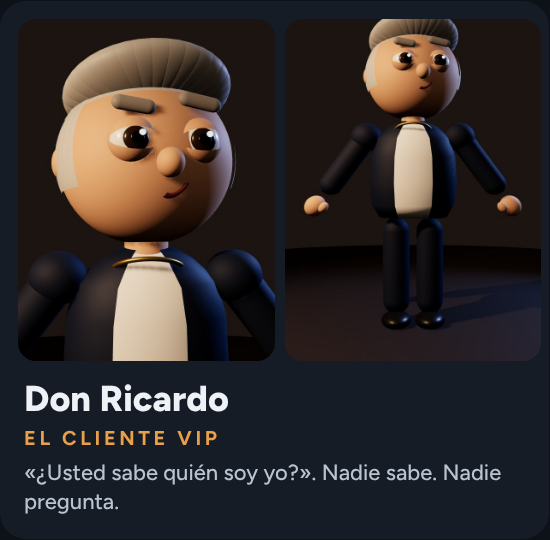
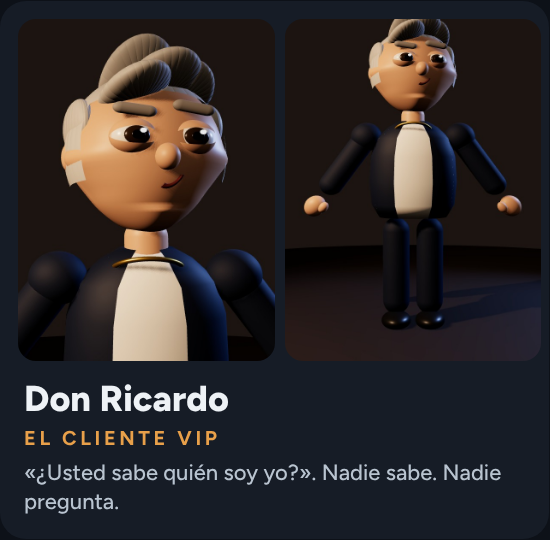
Bocetos v2 (rostro de modelo, pómulos, peinados de galán) y robot «Chispa»
Claude-Session: https://claude.ai/code/session_016r3h3eddn8zLcxunDkNv4C

Changed region(s): [[0.0927, 0.0593, 0.4327, 0.4741], [0.6491, 0.0296, 0.8655, 0.237]]

diff --git a/produccion/redes/voxel/robot3d.js b/produccion/redes/voxel/robot3d.js
@@ -1,0 +1,77 @@
+// «Chispa»: robot mesero retro, raro y único (no es el orbe). Cuerpo de huevo esmaltado crema con bandas de cobre,
+// una sola rueda, cuello de fuelle que se estira, cabeza de tambor con un ojo-lente enorme y otro diminuto, dos antenas desparejas,
+// una oreja-antena parabólica, brazos largos de tres dedos y una ventanilla en la barriga con engranajes que brillan.
+function robot3d(cfg = {}) {
+  const c = Object.assign({ esmalte: "#efe4cf", cobre: "#c8743a", acento: "#2bb3a8", ojo: "#ffb347" }, cfg);
+  const raiz = new THREE.Group(), M = (col, r = 0.4, m = 0) => new THREE.MeshStandardMaterial({ color: col, roughness: r, metalness: m });
+  const mE = M(c.esmalte, 0.28), mC = M(c.cobre, 0.32, 0.85), mN = M("#1a1b1f", 0.5), mA = M(c.acento, 0.35, 0.2), mG = new THREE.MeshPhysicalMaterial({ color: 0xffffff, roughness: 0.05, transmission: 0.6, transparent: true, opacity: 0.35 });
+  const add = (geo, m, x, y, z, padre = raiz) => { const o = new THREE.Mesh(geo, m); o.position.set(x, y, z); o.castShadow = o.receiveShadow = true; padre.add(o); return o; };
+  // rueda
+  const rueda = add(new THREE.TorusGeometry(0.17, 0.065, 18, 40), mN, 0, 0.235, 0); rueda.rotation.y = PI / 2;
+  const cubo = add(new THREE.CylinderGeometry(0.1, 0.1, 0.1, 28), mC, 0, 0.235, 0); cubo.rotation.z = PI / 2;
+  add(new THREE.CylinderGeometry(0.035, 0.05, 0.22, 16), mC, 0, 0.42, 0);
+  // cuerpo de huevo invertido
+  const perfil = [[0.001, 0.0], [0.16, 0.02], [0.3, 0.12], [0.38, 0.3], [0.4, 0.48], [0.36, 0.66], [0.26, 0.8], [0.12, 0.87], [0.001, 0.88]].map(([r, h]) => new THREE.Vector2(r, h));
+  const cuerpo = add(new THREE.LatheGeometry(perfil, 56), mE, 0, 0.5, 0);
+  [[0.74, 0.365], [1.2, 0.34]].forEach(([y, r]) => { const b = add(new THREE.TorusGeometry(r, 0.018, 10, 56), mC, 0, y, 0); b.rotation.x = PI / 2; });
+  // ventanilla con engranajes
+  const cv = document.createElement("canvas"); cv.width = cv.height = 256; const g = cv.getContext("2d"); const tex = new THREE.CanvasTexture(cv); tex.colorSpace = THREE.SRGBColorSpace;
+  const ventana = add(new THREE.CircleGeometry(0.13, 40), new THREE.MeshBasicMaterial({ map: tex, toneMapped: false }), 0, 0.98, 0.402);
+  const aro = add(new THREE.TorusGeometry(0.135, 0.022, 12, 40), mC, 0, 0.98, 0.4);
+  for (let i = 0; i < 8; i++) { const a = (i / 8) * 2 * PI; add(new THREE.SphereGeometry(0.012, 10, 8), mC, Math.cos(a) * 0.135, 0.82 + Math.sin(a) * 0.135 + 0.16, 0.42); }
+  // perillas y botones
+  [[-0.14, 1.27, mA], [-0.06, 1.29, M("#e2463a", 0.4)], [0.13, 1.28, mC]].forEach(([x, y, m]) => add(new THREE.SphereGeometry(0.028, 14, 10), m, x, y, Math.sqrt(Math.max(0, 0.27 * 0.27 - x * x)) + 0.005));
+  // brazos: hombro de bola, segmentos largos, pinza de tres dedos
+  const brazos = [-1, 1].map((d) => { const p = new THREE.Group(); p.position.set(d * 0.38, 1.0, 0); raiz.add(p); add(new THREE.SphereGeometry(0.07, 18, 14), mC, 0, 0, 0, p);
+    const s1 = add(new THREE.CapsuleGeometry(0.035, 0.3, 6, 14), mE, 0, -0.2, 0, p); const codo = new THREE.Group(); codo.position.set(0, -0.38, 0); p.add(codo);
+    add(new THREE.SphereGeometry(0.05, 14, 10), mC, 0, 0, 0, codo); add(new THREE.CapsuleGeometry(0.03, 0.26, 6, 14), mE, 0, -0.17, 0, codo);
+    const mano = new THREE.Group(); mano.position.set(0, -0.34, 0); codo.add(mano); add(new THREE.CylinderGeometry(0.045, 0.035, 0.05, 16), mC, 0, 0, 0, mano);
+    [0, 2.1, 4.2].forEach((a) => { const f = add(new THREE.CapsuleGeometry(0.012, 0.07, 4, 8), mN, Math.cos(a) * 0.03, -0.06, Math.sin(a) * 0.03, mano); f.rotation.set(Math.sin(a) * 0.4, 0, -Math.cos(a) * 0.4); });
+    return { p, codo, mano }; });
+  // bandeja con una tacita en la mano derecha
+  const bandeja = new THREE.Group(); brazos[1].mano.add(bandeja); bandeja.position.set(0, -0.1, 0.1);
+  add(new THREE.CylinderGeometry(0.17, 0.16, 0.014, 40), M("#b9bec4", 0.2, 0.9), 0, 0, 0.06, bandeja);
+  add(new THREE.CylinderGeometry(0.04, 0.032, 0.06, 20), M("#f4f1ea", 0.3), 0.03, 0.035, 0.07, bandeja);
+  // cuello de fuelle
+  const cuello = new THREE.Group(); cuello.position.set(0, 1.38, 0); raiz.add(cuello);
+  for (let i = 0; i < 6; i++) { const t = add(new THREE.TorusGeometry(0.075 - (i % 2) * 0.012, 0.025, 10, 28), i % 2 ? mN : mC, 0, i * 0.045, 0, cuello); t.rotation.x = PI / 2; }
+  // cabeza de tambor (cilindro acostado), ojo-lente enorme y ojo diminuto
+  const cabeza = new THREE.Group(); cabeza.position.set(0, 0.36, 0); cuello.add(cabeza);
+  const tambor = add(new THREE.CylinderGeometry(0.24, 0.24, 0.46, 48), mE, 0, 0, 0, cabeza); tambor.rotation.z = PI / 2;
+  [-1, 1].forEach((d) => { const tapa = add(new THREE.CylinderGeometry(0.245, 0.245, 0.03, 48), mC, d * 0.24, 0, 0, cabeza); tapa.rotation.z = PI / 2; });
+  const ojo = new THREE.Group(); ojo.position.set(-0.07, 0.02, 0.2); cabeza.add(ojo);
+  const barril = add(new THREE.CylinderGeometry(0.14, 0.15, 0.12, 40), mN, 0, 0, 0.04, ojo); barril.rotation.x = PI / 2;
+  const aroOjo = add(new THREE.TorusGeometry(0.145, 0.02, 12, 40), mC, 0, 0, 0.1, ojo);
+  const iris = add(new THREE.CircleGeometry(0.1, 40), new THREE.MeshBasicMaterial({ color: c.ojo, toneMapped: false }), 0, 0, 0.101, ojo);
+  const pupila = add(new THREE.CircleGeometry(0.045, 32), new THREE.MeshBasicMaterial({ color: 0x120a04 }), 0, 0, 0.102, ojo);
+  const cristal = add(new THREE.SphereGeometry(0.13, 32, 16, 0, 2 * PI, 0, PI / 2), mG, 0, 0, 0.09, ojo); cristal.rotation.x = PI / 2; cristal.scale.z = 0.5;
+  const brillo = add(new THREE.CircleGeometry(0.02, 16), new THREE.MeshBasicMaterial({ color: 0xffffff }), 0.04, 0.05, 0.135, ojo);
+  const luzOjo = new THREE.PointLight(c.ojo, 0.8, 1.2, 2); luzOjo.position.set(0, 0, 0.25); ojo.add(luzOjo);
+  const ojito = new THREE.Group(); ojito.position.set(0.15, 0.08, 0.215); cabeza.add(ojito);
+  const b2 = add(new THREE.CylinderGeometry(0.035, 0.04, 0.05, 20), mN, 0, 0, 0.0, ojito); b2.rotation.x = PI / 2;
+  add(new THREE.CircleGeometry(0.024, 20), new THREE.MeshBasicMaterial({ color: c.acento, toneMapped: false }), 0, 0, 0.026, ojito);
+  // boca: rejilla de altavoz
+  for (let i = 0; i < 5; i++) add(new THREE.BoxGeometry(0.012, 0.05, 0.01), mN, 0.08 + i * 0.022, -0.13, 0.205, cabeza);
+  // antenas desparejas con bombillo y oreja parabólica
+  const ant1 = add(new THREE.CylinderGeometry(0.008, 0.008, 0.32, 8), mC, -0.12, 0.38, -0.02, cabeza); ant1.rotation.z = 0.25;
+  const bomb1 = add(new THREE.SphereGeometry(0.035, 16, 12), new THREE.MeshBasicMaterial({ color: 0xffd27a, toneMapped: false }), -0.16, 0.54, -0.02, cabeza);
+  const ant2 = new THREE.Group(); ant2.position.set(0.12, 0.22, 0); cabeza.add(ant2);
+  const a2a = add(new THREE.CylinderGeometry(0.007, 0.007, 0.14, 8), mC, 0, 0.07, 0, ant2); const a2b = add(new THREE.CylinderGeometry(0.007, 0.007, 0.12, 8), mC, 0.05, 0.16, 0, ant2); a2b.rotation.z = -1.0;
+  const bomb2 = add(new THREE.SphereGeometry(0.022, 14, 10), new THREE.MeshBasicMaterial({ color: c.acento, toneMapped: false }), 0.1, 0.19, 0, ant2);
+  const oreja = new THREE.Group(); oreja.position.set(0.27, 0.05, 0); cabeza.add(oreja);
+  const plato = add(new THREE.SphereGeometry(0.11, 28, 12, 0, 2 * PI, 0, PI * 0.35), mE, 0.04, 0, 0, oreja); plato.rotation.z = -PI / 2;
+  add(new THREE.CylinderGeometry(0.006, 0.006, 0.08, 6), mC, 0.06, 0, 0, oreja).rotation.z = PI / 2;
+  function animar(t, s = {}) {
+    const habla = s.voz || 0; cuello.scale.y = 1 + 0.15 * Math.sin(t * 1.3) * 0.3 + (s.estira || 0); cabeza.rotation.set(Math.sin(t * 0.9) * 0.05, s.mira ?? Math.sin(t * 0.6) * 0.25, Math.sin(t * 0.7) * 0.06 + (s.ladea || 0));
+    oreja.rotation.x = t * 3; bomb1.material.color.setHSL(0.11, 1, 0.55 + 0.25 * Math.abs(Math.sin(t * 4))); bomb2.material.color.setHSL(0.48, 0.8, 0.4 + 0.3 * Math.abs(Math.sin(t * 6 + 1)));
+    const z = 1 + 0.25 * Math.sin(t * 2.5) * (s.enfoca ?? 0.4); iris.scale.setScalar(z); pupila.scale.setScalar(1.4 - 0.5 * z); luzOjo.intensity = 0.6 + habla * 1.2;
+    brazos[0].p.rotation.set(-0.3 + Math.sin(t * 1.1) * 0.08, 0, -0.25); brazos[0].codo.rotation.x = -0.5; brazos[1].p.rotation.set(-0.9, 0, 0.15); brazos[1].codo.rotation.x = -0.9;
+    bandeja.rotation.x = 0.9 + 0.9 - 0.0; bandeja.rotation.x = -(brazos[1].p.rotation.x + brazos[1].codo.rotation.x);
+    g.fillStyle = "#1a0f06"; g.fillRect(0, 0, 256, 256);
+    [[90, 110, 70, 10, 1], [170, 150, 50, 8, -1.6], [120, 190, 36, 7, 2.2]].forEach(([x, y, r, n, v]) => { g.save(); g.translate(x, y); g.rotate(t * v); g.fillStyle = "#ffb347"; g.shadowColor = "#ff8a00"; g.shadowBlur = 18;
+      g.beginPath(); for (let i = 0; i < n * 2; i++) { const a = (i / (n * 2)) * 2 * PI, rr = i % 2 ? r : r * 0.78; g.lineTo(Math.cos(a) * rr, Math.sin(a) * rr); } g.closePath(); g.fill();
+      g.fillStyle = "#1a0f06"; g.beginPath(); g.arc(0, 0, r * 0.3, 0, 2 * PI); g.fill(); g.restore(); });
+    tex.needsUpdate = true; rueda.rotation.x = t * 2;
+  }
+  return { raiz, animar };
+}

diff --git a/produccion/redes/voxel/vinil3d.js b/produccion/redes/voxel/vinil3d.js
@@ -16,12 +16,21 @@ VIN.torno = (perfil, m, padre, y = 0, sz = 0.74, phi0 = 0, phiL = 2 * PI) => { c
 // perfil del torso: de la cadera a los hombros (radio, alto)
 VIN.TORSO = [[0.001, -0.02], [0.2, -0.01], [0.25, 0.08], [0.265, 0.24], [0.255, 0.42], [0.22, 0.55], [0.14, 0.63], [0.075, 0.67], [0.001, 0.68]];
 VIN.TORSO_F = [[0.001, -0.02], [0.225, -0.01], [0.255, 0.07], [0.205, 0.25], [0.238, 0.41], [0.215, 0.54], [0.14, 0.63], [0.07, 0.67], [0.001, 0.68]];
+VIN.rostro = (geo, R) => {   // deforma una esfera de radio R: mandíbula en V, pómulos altos y mentón definido
+  const p = geo.attributes.position, v = new THREE.Vector3();
+  for (let i = 0; i < p.count; i++) { v.fromBufferAttribute(p, i); const yn = v.y / R, fr = v.z > 0 ? 1 : 0.55;
+    const conico = yn < 0 ? 1 - 0.3 * Math.pow(-yn, 1.45) : 1 - 0.03 * yn; v.x *= conico; v.z *= yn < 0 ? 1 - 0.1 * yn * yn : 1;
+    v.x *= 1 + 0.075 * Math.exp(-Math.pow(yn + 0.1, 2) / 0.018) * fr;                         // pómulos
+    v.x *= 1 - 0.035 * Math.exp(-Math.pow(yn + 0.5, 2) / 0.02) * fr;                          // sombra bajo el pómulo
+    if (yn < -0.7 && v.z > 0) v.z += 0.025 * R / 0.3 * Math.exp(-(v.x * v.x) / 0.006);          // mentón
+    p.setXYZ(i, v.x, v.y, v.z); }
+  p.needsUpdate = true; geo.computeVertexNormals(); return geo; };
 VIN.crecer = (perfil, d) => perfil.map(([r, h]) => [r > 0.01 ? r + d : r, h]);
 
 function personaVinil(cfg) {
   const c = Object.assign({ piel: "#d9a27e", pelo: "#2b1d16", cejas: "#1c1410", camisa: "#e7e1d6", pantalon: "#2c3442", zapatos: "#1a1a1a", alto: 1, iris: "#3a2416" }, cfg);
   const raiz = new THREE.Group(), cuerpo = pivote(0, 0, 0, raiz); raiz.scale.setScalar(c.alto);
-  const M = VIN.mat, mPiel = M(c.piel, { r: 0.62 }), mCamisa = M(c.camisa, { r: 0.75 }), mPant = M(c.pantalon, { r: 0.7 });
+  const M = VIN.mat, mPiel = M(c.piel, { r: c.modelo ? 0.45 : 0.62 }), mCamisa = M(c.camisa, { r: 0.75 }), mPant = M(c.pantalon, { r: 0.7 });
   const mPelo = M(c.pelo, { r: 0.5, bump: VIN.surcos, bs: 1.2 });
   // piernas y zapatos
   const piernas = [-1, 1].map((d) => { const p = pivote(d * 0.12, 0.78, 0, cuerpo); VIN.capsula(0.095, 0.5, mPant, 0, -0.36, 0, p);
@@ -44,10 +53,10 @@ function personaVinil(cfg) {
   // cuello y cabeza grande
   const cuello = pivote(0, 0.64, 0, torso); VIN.capsula(0.075, 0.06, mPiel, 0, 0.04, 0, cuello);
   const cabeza = pivote(0, 0.07, 0, cuello), H = new THREE.Group(); H.position.set(0, 0.29, 0.01); cabeza.add(H);
-  VIN.esfera(0.3, mPiel, 0, 0, 0, H, 1, 1.06, 0.96, 56);
+  const craneo = VIN.esfera(0.3, mPiel, 0, 0, 0, H, 1, c.modelo ? 1.1 : 1.06, 0.96, 72); if (c.modelo) { VIN.rostro(craneo.geometry, 0.3); H.scale.setScalar(0.9); H.position.y = 0.31; }
   [-1, 1].forEach((d) => VIN.esfera(0.06, mPiel, d * 0.29, -0.01, -0.02, H, 0.5, 1, 0.85));   // orejas
   // pelo esculpido
-  const casquete = (rad, th0, thL, ph0 = 0, phL = 2 * PI) => { const o = VIN.malla(new THREE.SphereGeometry(rad, 48, 24, ph0, phL, th0, thL), mPelo, 0, 0, 0, H); o.scale.set(1, 1.06, 0.98); return o; };
+  const casquete = (rad, th0, thL, ph0 = 0, phL = 2 * PI) => { const o = VIN.malla(new THREE.SphereGeometry(rad, 48, 24, ph0, phL, th0, thL), mPelo, 0, 0, 0, H); o.scale.set(1, c.modelo ? 1.13 : 1.06, 0.98); return o; };
   if (!c.calvo) {
     casquete(0.312, 0, PI * 0.36).rotation.x = -0.32;                    // tapa
     casquete(0.31, 0, PI * 0.62, PI * 0.85, PI * 1.3).rotation.x = -0.05;   // nuca y lados (abierto al frente)
@@ -63,6 +72,14 @@ function personaVinil(cfg) {
     if (c.peinado === "bob") { const mL = M(c.pelo, { r: 0.45, bump: VIN.surcos, bs: 1.2, lado: THREE.DoubleSide });
       VIN.malla(new THREE.CylinderGeometry(0.315, 0.34, 0.34, 40, 1, true, PI * 0.36, PI * 1.28), mL, 0, -0.1, -0.01, H);
       const fl = VIN.esfera(0.2, mPelo, 0.05, 0.21, 0.14, H, 1.35, 0.4, 0.8); fl.rotation.set(0.3, 0, -0.25); }
+    if (c.peinado === "galan") {   // tupé con raya al lado: mechones largos que suben y caen hacia atrás
+      [[-0.08, 0.24, 0.15, 0.14, -0.25, 0.3], [0.04, 0.29, 0.1, 0.15, -0.35, 0.08], [0.13, 0.27, 0.05, 0.13, -0.45, -0.25], [-0.02, 0.32, -0.04, 0.16, -0.7, 0.1], [0.07, 0.3, -0.14, 0.14, -0.95, -0.1]]
+        .forEach(([x0, y0, z0, r, rx, rz]) => { const m = VIN.esfera(r, mPelo, x0, y0, z0, H, 0.95, 0.42, 1.55); m.rotation.set(rx, 0, rz); });
+      [-1, 1].forEach((d) => VIN.esfera(0.13, mPelo, d * 0.25, 0.12, -0.04, H, 0.42, 0.9, 1.3)); }
+    if (c.peinado === "melena") { const mL = M(c.pelo, { r: 0.4, bump: VIN.surcos, bs: 1.4, lado: THREE.DoubleSide });   // melena larga en capas con flequillo abierto
+      VIN.malla(new THREE.CylinderGeometry(0.29, 0.38, 0.78, 48, 1, true, PI * 0.55, PI * 0.9), mL, 0, -0.38, -0.04, H);
+      [-1, 1].forEach((d) => { for (let i = 0; i < 5; i++) { const m = VIN.esfera(0.1 - i * 0.008, mPelo, d * (0.25 + 0.02 * Math.sin(i * 1.7)), 0.08 - i * 0.14, 0.02 - i * 0.03, H, 0.7, 1.35, 0.85); m.rotation.z = d * 0.15; }
+        const c2 = VIN.esfera(0.13, mPelo, d * 0.17, 0.2, 0.18, H, 0.55, 1.15, 0.55); c2.rotation.set(0.45, 0, d * 0.95); }); }
     if (c.peinado === "rapado") { /* solo el casquete */ }
     if (c.peinado === "normal" || !c.peinado) VIN.esfera(0.16, mPelo, 0.04, 0.24, 0.1, H, 1.4, 0.45, 1.0).rotation.x = -0.2;
   }
@@ -86,7 +103,7 @@ function personaVinil(cfg) {
   if (c.gafas) { const mg = M(c.gafas, { r: 0.3 }); ojos.forEach(({ g }) => { const ar = VIN.malla(new THREE.TorusGeometry(0.085, 0.011, 8, 36), mg, 0, 0, 0.045, g); ar.scale.y = 0.85; });
     VIN.capsula(0.008, 0.05, mg, 0, 0.035, 0.29, H).rotation.z = PI / 2; }
   if (c.barba) { const mb = new THREE.MeshStandardMaterial({ color: c.barba, roughness: 0.95, transparent: true, opacity: 0.38, bumpMap: VIN.surcos, bumpScale: 0.5 });
-    const bb = VIN.malla(new THREE.SphereGeometry(0.304, 48, 16, PI * 0.1, PI * 0.8, PI * 0.74, PI * 0.2), mb, 0, 0, 0, H); bb.scale.set(1, 1.06, 0.965); bb.castShadow = false; }
+    const bb = VIN.malla(new THREE.SphereGeometry(0.304, 48, 16, PI * 0.1, PI * 0.8, PI * 0.74, PI * 0.2), mb, 0, 0, 0, H); bb.scale.set(1, c.modelo ? 1.1 : 1.06, 0.965); if (c.modelo) VIN.rostro(bb.geometry, 0.304); bb.castShadow = false; }
   if (c.pestanas) { const mp = M(c.pestanas, { r: 0.35 }); ojos.forEach(({ par, d }) => {   // delineado sobre el párpado y una «colita» hacia afuera
       const arco = VIN.malla(new THREE.TorusGeometry(0.077, 0.0085, 8, 30, PI * 0.95), mp, 0, 0.004, 0, par); arco.rotation.set(PI / 2, 0, PI * 0.025);
       const cola = VIN.capsula(0.007, 0.03, mp, d * 0.078, 0.012, 0.012, par); cola.rotation.set(0, 0, -d * 1.1); }); }

diff --git a/produccion/redes/voxel/bocetos.py b/produccion/redes/voxel/bocetos.py
@@ -7,27 +7,27 @@ RAIZ = motor.RAIZ; SALIDA = RAIZ + "entregables/redes/bocetos/"; THREE = motor.T
 
 PERSONAJES = [
     dict(id="valentina", nombre="Valentina", rol="La mesera estrella", frase="Atiende veinte mesas con una sonrisa… y una ceja levantada.",
-         cfg=dict(piel="#e6b08c", pelo="#2a1810", cejas="#2a1810", peinado="ondas", pestanas="#120c0a", labios="#b8323e", almendra=True, narizFina=True, aretes="#e0b84a", torsoF=True,
+         cfg=dict(piel="#e6b08c", pelo="#2a1810", cejas="#2a1810", peinado="melena", modelo=True, pestanas="#120c0a", labios="#b8323e", almendra=True, narizFina=True, aretes="#e0b84a", torsoF=True,
                   camisa="#1b1b20", pantalon="#1b1b20", zapatos="#0e0e10", iris="#5a3418", alto=0.96, semilla=41),
          pose=dict(emo="seductor", gesto="cadera", mira=-12, miraY=-0.04)),
     dict(id="sebastian", nombre="Sebastián", rol="El chef arrogante", frase="«Mi receta no se toca». Ni el dueño se atreve.",
-         cfg=dict(piel="#cf9670", pelo="#141010", cejas="#141010", peinado="engominado", barba="#2a1e18", almendra=True, camisa="#f4f2ee", pantalon="#26282e", hombros=1.08,
+         cfg=dict(piel="#cf9670", pelo="#141010", cejas="#141010", peinado="galan", modelo=True, barba="#2a1e18", almendra=True, camisa="#f4f2ee", pantalon="#26282e", hombros=1.08,
                   iris="#2a1a10", alto=1.04, semilla=42),
          pose=dict(emo="arrogante", gesto="cruzado", mira=10, miraY=-0.12)),
     dict(id="camila", nombre="Camila", rol="La influencer", frase="Antes de comer, la foto. Y si no hay buena luz, se va.",
-         cfg=dict(piel="#f2c9a8", pelo="#e3c272", cejas="#a88a40", peinado="ondas", pestanas="#1a120c", labios="#d65a78", almendra=True, narizFina=True, aretes="#f0d070", torsoF=True,
+         cfg=dict(piel="#f2c9a8", pelo="#e3c272", cejas="#a88a40", peinado="melena", modelo=True, pestanas="#1a120c", labios="#d65a78", almendra=True, narizFina=True, aretes="#f0d070", torsoF=True,
                   camisa="#f2a0be", pantalon="#e9e2d8", zapatos="#d9c9b9", iris="#3a6a8a", alto=0.95, semilla=43),
          pose=dict(emo="feliz", gesto="celular", mira=-15, miraY=0.0)),
     dict(id="ricardo", nombre="Don Ricardo", rol="El cliente VIP", frase="«¿Usted sabe quién soy yo?». Nadie sabe. Nadie pregunta.",
-         cfg=dict(piel="#dba987", pelo="#c4c2bf", cejas="#9a9692", peinado="engominado", cadena="#e0b84a", saco="#14213a", camisa="#f4f2ee", pantalon="#14213a",
+         cfg=dict(piel="#dba987", pelo="#c4c2bf", cejas="#9a9692", peinado="galan", modelo=True, almendra=True, cadena="#e0b84a", saco="#14213a", camisa="#f4f2ee", pantalon="#14213a",
                   hombros=1.1, iris="#3a2a1a", alto=1.02, semilla=44),
          pose=dict(emo="arrogante", gesto="cadera", mira=12, miraY=-0.16)),
     dict(id="mateo", nombre="Mateo", rol="El repartidor galán", frase="Llega a tiempo, sonríe… y todos piden otra vez.",
-         cfg=dict(piel="#b87c56", pelo="#121010", cejas="#121010", peinado="rapado", barba="#1e1612", almendra=True, saco="#1d2027", camisa="#f2efe8", pantalon="#2a2f3a",
+         cfg=dict(piel="#b87c56", pelo="#121010", cejas="#121010", peinado="galan", modelo=True, barba="#1e1612", almendra=True, saco="#1d2027", camisa="#f2efe8", pantalon="#2a2f3a",
                   hombros=1.1, iris="#2a1a10", alto=1.03, semilla=45),
          pose=dict(emo="seductor", gesto="reposo", mira=-8, miraY=-0.03)),
     dict(id="daniela", nombre="Daniela", rol="La dueña de enfrente", frase="Su rival. Elegante, fría… y siempre un paso adelante.",
-         cfg=dict(piel="#dfa680", pelo="#3a1e14", cejas="#2a160e", peinado="bob", gafas="#141414", pestanas="#120c0a", labios="#8e2a3a", almendra=True, narizFina=True, torsoF=True,
+         cfg=dict(piel="#dfa680", pelo="#3a1e14", cejas="#2a160e", peinado="bob", modelo=True, gafas="#141414", pestanas="#120c0a", labios="#8e2a3a", almendra=True, narizFina=True, torsoF=True,
                   saco="#9a1f2e", camisa="#f4f1ea", pantalon="#1a1a1e", iris="#3a2416", alto=0.97, semilla=46),
          pose=dict(emo="arrogante", gesto="cruzado", mira=-10, miraY=-0.1)),
 ]
@@ -41,7 +41,7 @@ body{{margin:0;background:#0d1118;color:#eef2f6;font-family:Figtree;width:1800px
 .g{{display:grid;grid-template-columns:repeat(3,1fr);gap:26px;padding:0 50px 50px}} .t{{background:#161c26;border-radius:26px;padding:18px 18px 22px}}
 .fotos{{display:flex;gap:10px}} .fotos img{{width:50%;border-radius:18px;background:#222}} h2{{font:800 36px Figtree;margin:16px 6px 0}} h3{{font:700 20px Figtree;letter-spacing:.18em;text-transform:uppercase;color:#e8a04a;margin:6px 6px}}
 p{{font:500 22px/1.35 Figtree;color:#b9c4d0;margin:8px 6px 0}}</style></head><body>
-<h1>Bocetos de personajes · Apex</h1><div class="sub">Figuras de vinil. Elija los que le sirven y los que no.</div><div class="g">{tarjetas}</div>
+<h1>Bocetos de personajes · Apex</h1><div class="sub">Versión 2: rostro de modelo, pómulos marcados, ojos almendrados, piel lisa y peinados de galán.</div><div class="g">{tarjetas}</div>
 <canvas id="lienzo" width="600" height="800" style="display:none"></canvas>
 <script src="file://{THREE}"></script>
 <script>const EP = {{ estilo: "vinil" }}; const PERS = {json.dumps(PERSONAJES, ensure_ascii=False)};

diff --git a/produccion/redes/voxel/robot.py b/produccion/redes/voxel/robot.py
@@ -1,0 +1,46 @@
+"""Boceto del robot «Chispa»: hoja con vista de tres cuartos, de frente, de perfil y primer plano de la cabeza.
+  python robot.py  →  entregables/redes/bocetos/robot.png"""
+import os, asyncio, importlib.util
+AQUI = os.path.dirname(os.path.abspath(__file__)) + "/"
+_spec = importlib.util.spec_from_file_location("motor", AQUI + "../heroes/hacer.py"); motor = importlib.util.module_from_spec(_spec); _spec.loader.exec_module(motor)
+RAIZ = motor.RAIZ; SALIDA = RAIZ + "entregables/redes/bocetos/"; THREE = motor.TRABAJO + "three/package/build/three.min.js"
+VISTAS = [("tres cuartos", [1.6, 1.4, 2.9], [0, 1.05, 0], 34), ("de frente", [0, 1.25, 3.2], [0, 1.05, 0], 34), ("de perfil", [3.2, 1.3, 0.2], [0, 1.05, 0], 34), ("la cabeza", [0.95, 1.92, 1.75], [0, 1.76, 0], 30)]
+
+def pagina(W):
+    leer = lambda p: open(p).read()
+    imgs = "".join(f'<figure><img id="v{i}"><figcaption>{n}</figcaption></figure>' for i, (n, *_) in enumerate(VISTAS))
+    html = f'''<!doctype html><html><head><meta charset="utf-8">{leer(RAIZ + "produccion/videos/fuentes.html")}<style>
+body{{margin:0;background:#0d1118;color:#eef2f6;font-family:Figtree;width:1800px}} h1{{font:800 56px Figtree;margin:40px 50px 4px}} h3{{font:700 22px Figtree;letter-spacing:.2em;color:#e8a04a;margin:0 50px}}
+p{{font:500 26px/1.4 Figtree;color:#b9c4d0;margin:14px 50px 26px;max-width:1500px}} .g{{display:flex;gap:18px;padding:0 50px 50px}} figure{{margin:0;flex:1;background:#161c26;border-radius:22px;padding:12px}}
+img{{width:100%;border-radius:14px}} figcaption{{font:700 20px Figtree;letter-spacing:.16em;text-transform:uppercase;color:#8a98a8;margin:10px 6px 2px}}</style></head><body>
+<h1>Chispa</h1><h3>EL ROBOT MESERO · BOCETO</h3>
+<p>Un robot retro que no se parece a nada: cuerpo de huevo esmaltado con bandas de cobre, una sola rueda, cuello de fuelle que se estira cuando algo le interesa,
+cabeza de tambor con un ojo-lente enorme que enfoca y otro diminuto, dos antenas desparejas, una oreja parabólica que gira y una ventanilla en la barriga donde se ven sus engranajes encendidos.</p>
+<div class="g">{imgs}</div><canvas id="lienzo" width="600" height="800" style="display:none"></canvas>
+<script src="file://{THREE}"></script>
+<script>const PI = Math.PI; const VISTAS = {[[list(a), list(b), f] for (_, a, b, f) in VISTAS]};
+{leer(AQUI + "robot3d.js")}
+const REN = new THREE.WebGLRenderer({{ canvas: document.getElementById("lienzo"), antialias: true, preserveDrawingBuffer: true }});
+REN.setSize(600, 800, false); REN.shadowMap.enabled = true; REN.toneMapping = THREE.ACESFilmicToneMapping; REN.toneMappingExposure = 1.2; REN.outputColorSpace = THREE.SRGBColorSpace;
+const ESC = new THREE.Scene(); ESC.background = new THREE.Color(0x14181f);
+const piso = new THREE.Mesh(new THREE.CircleGeometry(5, 48), new THREE.MeshStandardMaterial({{ color: 0x232833, roughness: 0.7 }})); piso.rotation.x = -PI / 2; piso.receiveShadow = true; ESC.add(piso);
+const llave = new THREE.SpotLight(0xffe2c0, 70, 14, 0.5, 0.6, 2); llave.position.set(-2.4, 4.0, 3.0); llave.castShadow = true; llave.shadow.mapSize.set(1024, 1024); ESC.add(llave);
+const contra = new THREE.SpotLight(0x7fd8ff, 55, 14, 0.6, 0.7, 2); contra.position.set(2.6, 3.0, -2.8); ESC.add(contra);
+ESC.add(new THREE.HemisphereLight(0xfff0e0, 0x101418, 0.6));
+const R = robot3d(); ESC.add(R.raiz); llave.target = R.raiz; contra.target = R.raiz; R.animar(1.7, {{ enfoca: 0.4 }});
+const CAM = new THREE.PerspectiveCamera(34, 600 / 800, 0.05, 50);
+VISTAS.forEach(([p, t, f], i) => {{ CAM.fov = f; CAM.position.set(...p); CAM.lookAt(...t); CAM.updateProjectionMatrix(); REN.render(ESC, CAM); document.getElementById("v" + i).src = REN.domElement.toDataURL("image/jpeg", 0.92); }});
+</script></body></html>'''
+    open(W + "robot.html", "w").write(html)
+
+async def main():
+    from playwright.async_api import async_playwright
+    W = motor.TRABAJO + "bocetos/"; os.makedirs(W, exist_ok=True); os.makedirs(SALIDA, exist_ok=True); pagina(W)
+    async with async_playwright() as p:
+        br = await p.chromium.launch(executable_path=motor.CHROME, args=["--use-gl=angle", "--use-angle=swiftshader", "--enable-unsafe-swiftshader", "--ignore-gpu-blocklist"])
+        pg = await br.new_page(viewport={"width": 1800, "height": 1000}); pg.on("pageerror", lambda e: print("ERR", e))
+        await pg.goto("file://" + W + "robot.html"); await pg.evaluate("document.fonts.ready"); await pg.wait_for_timeout(1500)
+        await pg.screenshot(path=SALIDA + "robot.png", full_page=True); await br.close()
+    print("listo", SALIDA + "robot.png")
+
+if __name__ == "__main__": asyncio.run(main())
